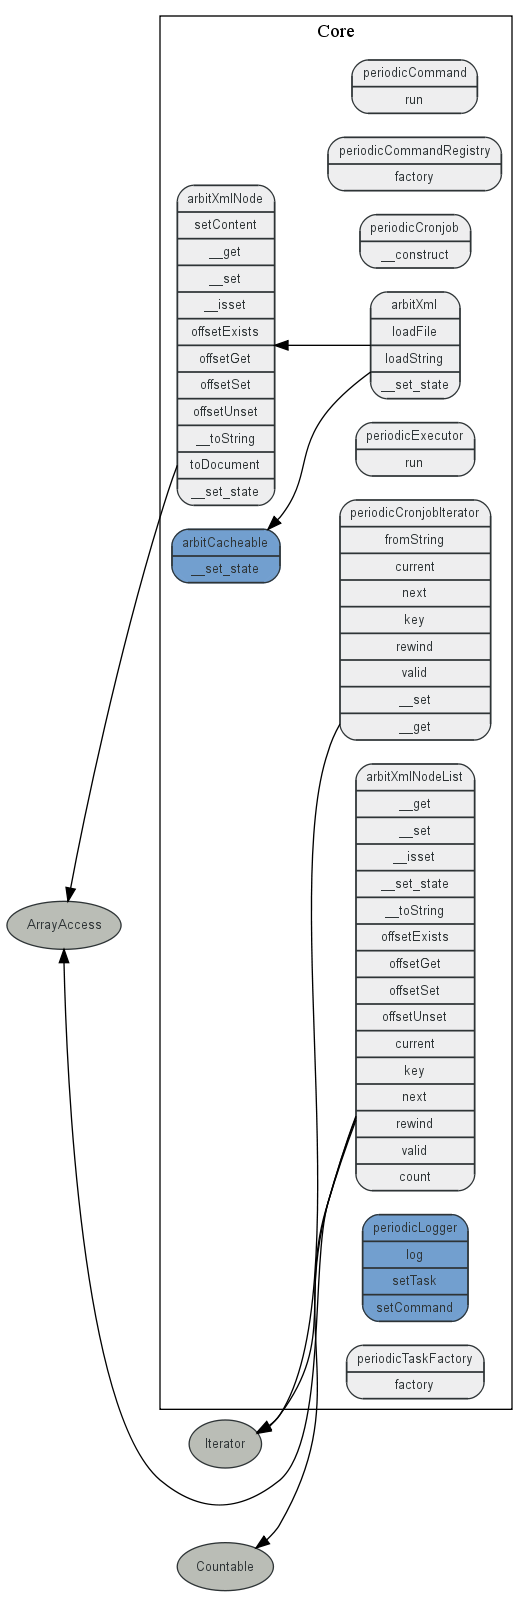
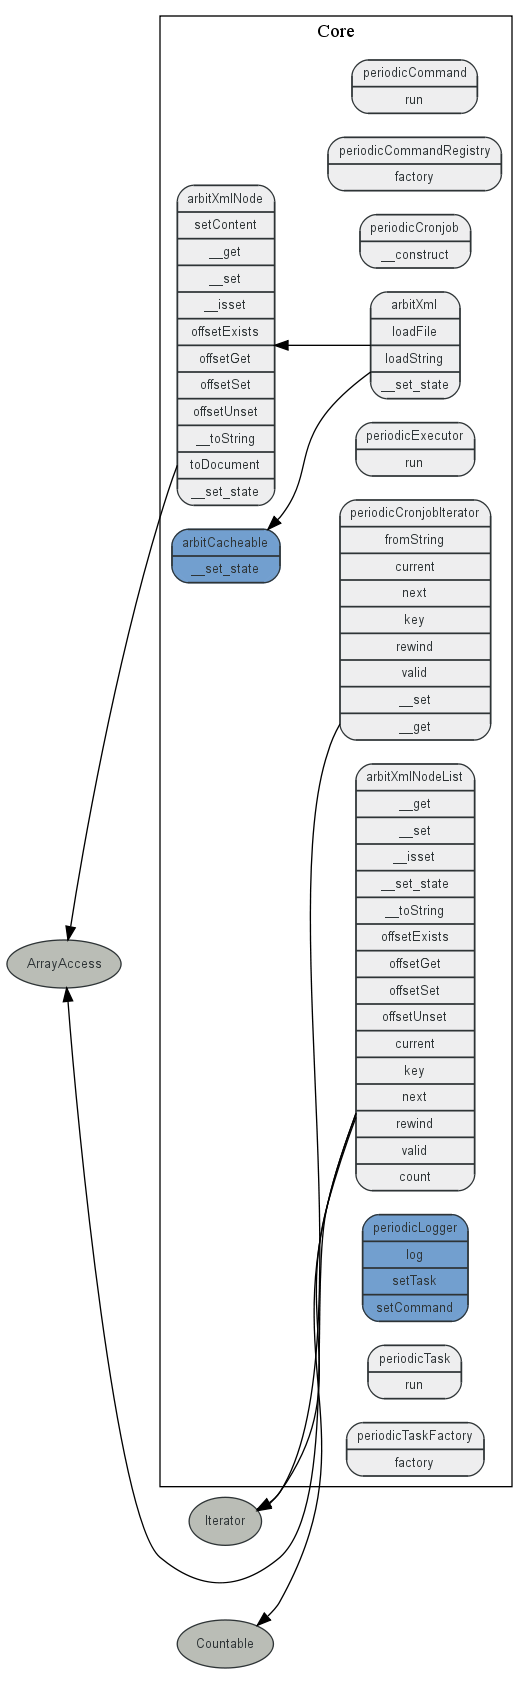
- Implemented: Basic task # Yet mostly untested. The executor misses handling of task status.

diff --git a/src/classes/task.php b/src/classes/task.php
@@ -1,0 +1,160 @@
+<?php
+/**
+ * Task
+ *
+ * This file is part of periodic
+ *
+ * periodic is free software; you can redistribute it and/or modify it under
+ * the terms of the GNU Lesser General Public License as published by the Free
+ * Software Foundation; version 3 of the License.
+ *
+ * periodic is distributed in the hope that it will be useful, but WITHOUT ANY
+ * WARRANTY; without even the implied warranty of MERCHANTABILITY or FITNESS
+ * FOR A PARTICULAR PURPOSE.  See the GNU Lesser General Public License for
+ * more details.
+ *
+ * You should have received a copy of the GNU Lesser General Public License
+ * along with periodic; if not, write to the Free Software Foundation, Inc., 51
+ * Franklin St, Fifth Floor, Boston, MA  02110-1301  USA
+ *
+ * @package Core
+ * @version $Revision: 977 $
+ * @license http://www.gnu.org/licenses/lgpl-3.0.txt LGPL
+ */
+
+/**
+ * Task
+ *
+ * Tasks are sets of commands with optional additional configuration to handle
+ * the different return states of its contained commands.
+ */
+class periodicTask
+{
+    /**
+     * Logger
+     * 
+     * @var periodicLogger
+     */
+    protected $logger;
+
+    /**
+     * Command configuration
+     * 
+     * @var arbitXmlNode
+     */
+    protected $configuration;
+
+    /**
+     * Name of current task
+     * 
+     * @var string
+     */
+    protected $name;
+
+    /**
+     * Scheduled date of current task
+     * 
+     * @var int
+     */
+    protected $scheduled;
+
+    /**
+     * Task configuration properties
+     * 
+     * @var array
+     */
+    protected $properties = array(
+        'reScheduleTime' => 300,
+        'timeout'        => 3600,
+    );
+
+    /**
+     * Construct command
+     *
+     * Construct command from its configuration and the currently used logger
+     * 
+     * @param arbitXmlNode $configuration 
+     * @param periodicLogger $logger 
+     * @return void
+     */
+    public function __construct( $name, $scheduled, arbitXmlNode $configuration, periodicLogger $logger )
+    {
+        $this->name          = $name;
+        $this->scheduled     = $scheduled;
+        $this->configuration = $configuration;
+        $this->logger        = $logger;
+
+        // Configure task
+        if ( $this->configuration->config )
+        {
+            foreach ( $this->configuration->config as $key => $value )
+            {
+                $this->$key = $value;
+            }
+        }
+    }
+
+    /**
+     * Return task ID
+     * 
+     * @return string
+     */
+    public function getId()
+    {
+        return $this->name . '-' . $this->scheduled;
+    }
+
+    /**
+     * Run task
+     *
+     * Execute the contained commands
+     * 
+     * Returns SUCCESS, if either all commands have been run successfully, or
+     * one command intentionally aborted the execution. If one command reports
+     * an error or requests reschuduling execution is aborted and this is
+     * reported to the executor.
+     * 
+     * @return int
+     */
+    public function execute()
+    {
+        foreach ( $this->configuration->command as $config )
+        {
+            if ( ( $command = periodicCommandRegistry::factory( $type = $config['type'], $config, $this->logger ) ) === false )
+            {
+                $this->logger->log(
+                    "Failed to instantiate command '$type' - aborting task.",
+                    periodicLogger::ERROR
+                );
+                return;
+            }
+
+            $this->logger->log( "Execute command '$type'." );
+            $this->logger->setCommand( $type );
+            $status = $command->run();
+            $this->logger->setCommand();
+
+            switch ( $status )
+            {
+                case periodicExecutor::SUCCESS:
+                    $this->logger->log( 'Finished command execution.' );
+                    break;
+
+                case periodicExecutor::ABORT:
+                    $this->logger->log( 'Command aborted execution.' );
+                    return periodicExecutor::SUCCESS;
+
+                case periodicExecutor::ERROR:
+                    $this->logger->log( 'Command reported error.', periodicLogger::WARNING );
+                    return periodicExecutor::ERROR;
+
+                case periodicExecutor::RESCHEDULE:
+                    $this->logger->log( 'Command requested rescheduled execution.' );
+                    return periodicExecutor::RESCHEDULE;
+            }
+        }
+
+        return periodicExecutor::SUCCESS;
+    }
+}
+

diff --git a/tests/executor/base.php b/tests/executor/base.php
@@ -291,4 +291,33 @@ class periodicExecutorTests extends PHPUnit_Framework_TestCase
             strpos( $logger->logMessages[2], '(E) Error parsing definition file for task \'invalid\':' )
         );
     }
+
+    public function testRunDummyTestCommand()
+    {
+        periodicCommandRegistry::registerCommand( 'test.dummy', 'periodicTestDummyCommand' );
+        $executor = new periodicTestAllPublicExecutor(
+            "* * * * * dummy",
+            $this->taskFactory, $logger = new periodicTestLogger(), $this->tmpDir
+        );
+
+        // Set a manual last run date, to keep tests deterministic
+        file_put_contents( $this->tmpDir . '/lastRun', strtotime( "2000-01-01 12:23:34" ) );
+        $executor->run();
+
+        $this->assertEquals(
+            array(
+                '(i) Aquired lock.',
+                '(i) Stored last run time.',
+                '(i) Create task \'dummy\' for scheduled date \'Sat, 01 Jan 2000 12:23:00 +0100\'.',
+                '(i) [dummy-946725780] Start task execution.',
+                '(i) [dummy-946725780] Create command \'test.dummy\'.',
+                '(i) [dummy-946725780] Execute command \'test.dummy\'.',
+                '(i) [dummy-946725780] [test.dummy] Run test command.',
+                '(i) [dummy-946725780] Finished command execution.',
+                '(i) [dummy-946725780] Finished task execution.',
+                '(i) Released lock.',
+            ),
+            $logger->logMessages
+        );
+    }
 }

diff --git a/src/classes/executor.php b/src/classes/executor.php
@@ -59,6 +59,28 @@ class periodicExecutor
     protected $taskFactory;
 
     /**
+     * Constant indicating success of command run 
+     */
+    const SUCCESS    = 1;
+                  
+    /**
+     * Constant indicating, that the task should be aborted because of the
+     * current command.
+     */
+    const ABORT      = 2;
+                  
+    /**
+     * Constant indicating that the current command caused an error.
+     */
+    const ERROR      = 4;
+                  
+    /**
+     * Constant indicating a temporary failure, so that the task should be
+     * rescheduled.
+     */
+    const RESCHEDULE = 8;
+
+    /**
      * Construct the executor
      *
      * Construct the executor from the given cron table and a logger
@@ -189,7 +211,11 @@ class periodicExecutor
         {
             if ( ( $task = $this->taskFactory->factory( $cronjob->task, $scheduled, $this->logger ) ) !== false )
             {
+                $this->logger->setTask( $task->getId() );
+                $this->logger->log( 'Start task execution.' );
                 $task->execute();
+                $this->logger->log( 'Finished task execution.' );
+                $this->logger->setTask();
             }
         }
     }

diff --git a/tests/data/logger.php b/tests/data/logger.php
@@ -3,6 +3,8 @@
 class periodicTestLogger implements periodicLogger
 {
     public $logMessages = array();
+    public $task        = null;
+    public $command     = null;
 
     public function log( $message, $severity = periodicLogger::INFO )
     {
@@ -11,15 +13,22 @@ class periodicTestLogger implements periodicLogger
             periodicLogger::WARNING => "W",
             periodicLogger::ERROR   => "E",
         );
-        $this->logMessages[] = '(' . $mapping[$severity] . ') ' . $message;
+        $msg = '(' . $mapping[$severity] . ') ';
+
+        if ( $this->task )    $msg .= "[{$this->task}] ";
+        if ( $this->command ) $msg .= "[{$this->command}] ";
+
+        $this->logMessages[] = $msg . $message;
     }
 
-    public function setTask( periodicTask $task )
+    public function setTask( $task = null )
     {
+        $this->task = $task;
     }
 
-    public function setCommand( periodicCommand $command )
+    public function setCommand( $command = null )
     {
+        $this->command = $command;
     }
 }
 

diff --git a/src/classes/logger.php b/src/classes/logger.php
@@ -59,21 +59,23 @@ interface periodicLogger
     /**
      * Set current task
      *
-     * Set the currently active task.
+     * Set the currently active task. To reset, just call woithout any
+     * parameters.
      * 
-     * @param periodicTask $task 
+     * @param string $task 
      * @return void
      */
-    public function setTask( periodicTask $task );
+    public function setTask( $task = null );
 
     /**
      * Set current command
      *
-     * Set the currently active command.
+     * Set the currently active command. To reset, just call woithout any
+     * parameters.
      *
-     * @param periodicCommand $command 
+     * @param string $command 
      * @return void
      */
-    public function setCommand( periodicCommand $command );
+    public function setCommand( $command = null );
 }
 

diff --git a/src/classes/autoload.php b/src/classes/autoload.php
@@ -47,6 +47,7 @@ return array(
     'arbitValueException'             => 'external/xml/exceptions.php',
     'arbitXmlNodeList'                => 'external/xml/node_list.php',
     'periodicLogger'                  => 'logger.php',
+    'periodicTask'                    => 'task.php',
     'periodicTaskFactory'             => 'task_factory.php',
 );
 

diff --git a/src/classes/command.php b/src/classes/command.php
@@ -64,8 +64,11 @@ abstract class periodicCommand
      * Run command
      *
      * Execute the actual bits.
+     *
+     * Should return one of the status constant values, defined as class
+     * constants in periodicCommand.
      * 
-     * @return void
+     * @return int
      */
     abstract public function run();
 }

diff --git a/src/classes/task_factory.php b/src/classes/task_factory.php
@@ -92,7 +92,7 @@ class periodicTaskFactory
             "Create task '$task' for scheduled date '" . date( 'r', $date ) . "'.",
             periodicLogger::INFO
         );
-        return new periodicTask( $taskDefinition, $logger );
+        return new periodicTask( $task, $date, $taskDefinition, $logger );
     }
 }
 

diff --git a/src/classes/command_registry.php b/src/classes/command_registry.php
@@ -28,7 +28,7 @@
  * A simple static-only command registry, where commands can be registered with
  * their associated implementations.
  */
-class periodicCommandRegistry
+final class periodicCommandRegistry
 {
     /**
      * List of commands with their associated class names of their

diff --git a/tests/data/command.php b/tests/data/command.php
@@ -5,6 +5,7 @@ class periodicTestDummyCommand extends periodicCommand
     public function run()
     {
         $this->logger->log( 'Run test command.' );
+        return periodicExecutor::SUCCESS;
     }
 }
 
